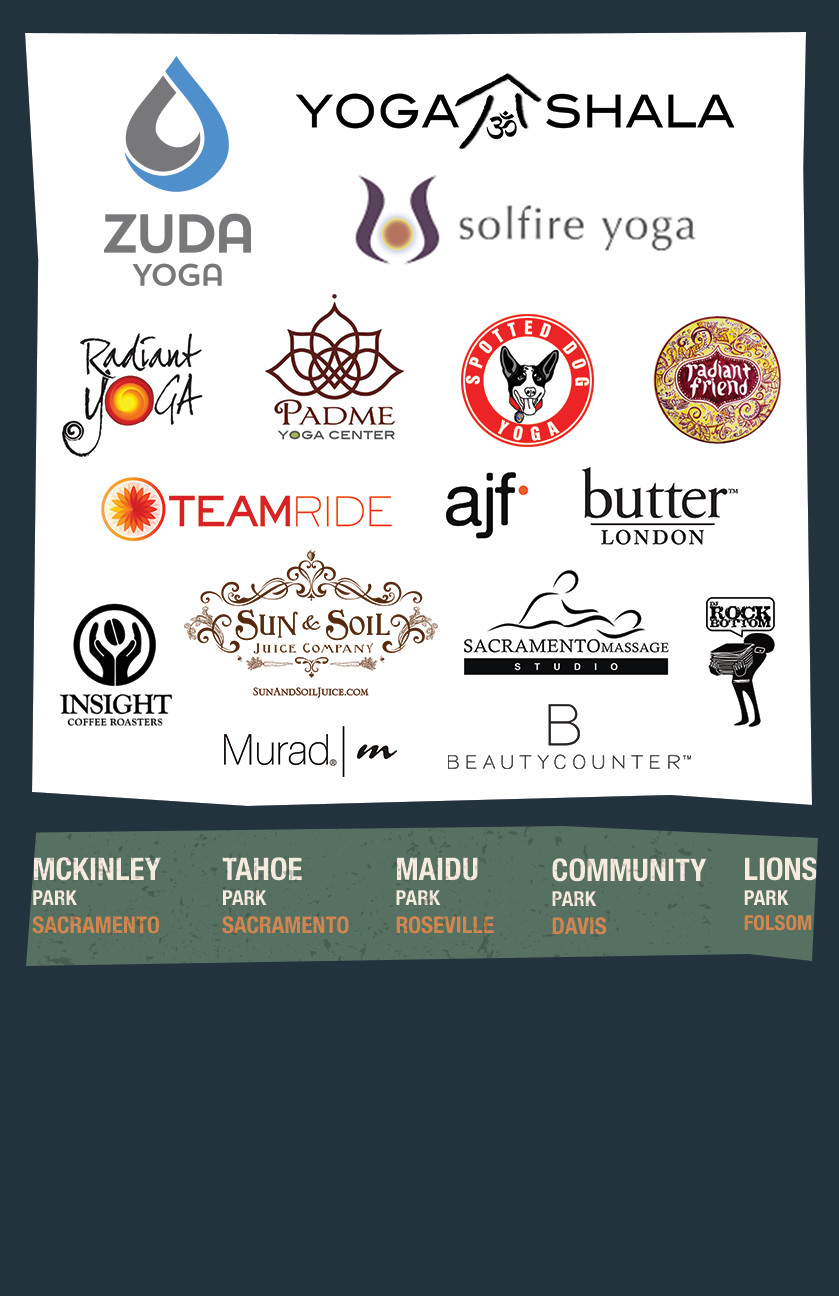
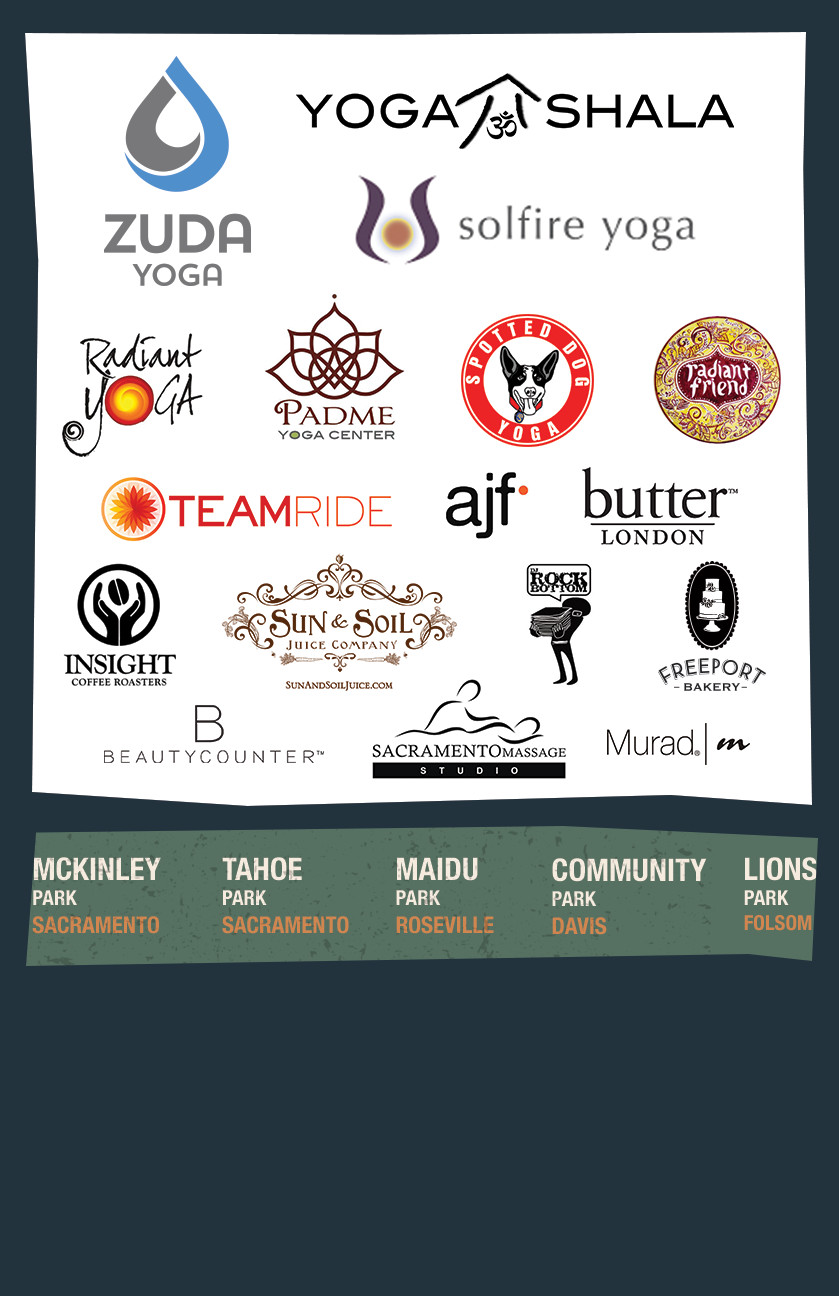
Add Freeport Bakery and re-layout sponsors

Changed region(s): [[0.2169, 0.4321, 0.9297, 0.6173], [0.062, 0.4321, 0.2169, 0.5864]]

diff --git a/css/main.scss b/css/main.scss
@@ -215,43 +215,50 @@ a.sponsor-butter-london {
 }
 
 a.sponsor-insight-coffee {
-  top: 590px;
-  left: 54px;
+  top: 554px;
+  left: 56px;
   width: 124px;
-  height: 150px;
-}
-
-a.sponsor-sun-and-soil {
-  top: 548px;
-  left: 184px;
-  width: 254px;
-  height: 151px;
-}
-
-a.sponsor-sacramento-massage-studio {
-  top: 565px;
-  left: 455px;
-  width: 220px;
-  height: 120px;
-}
-
-a.sponsor-dj-rock-bottom {
-  top: 590px;
-  left: 700px;
-  width: 81px;
   height: 142px;
 }
 
+a.sponsor-sun-and-soil {
+  top: 554px;
+  left: 222px;
+  width: 234px;
+  height: 137px;
+}
+
+a.sponsor-sacramento-massage-studio {
+  top: 679px;
+  left: 371px;
+  width: 196px;
+  height: 111px;
+}
+
+a.sponsor-dj-rock-bottom {
+  top: 556px;
+  left: 519px;
+  width: 81px;
+  height: 133px;
+}
+
 a.sponsor-murad {
-  top: 723px;
-  left: 214px;
+  top: 713px;
+  left: 584px;
   width: 189px;
   height: 60px;
 }
 
 a.sponsor-beautycounter {
   top: 698px;
-  left: 444px;
+  left: 89px;
   width: 250px;
   height: 80px;
+}
+
+a.sponsor-freeport-bakery {
+  top: 556px;
+  left: 649px;
+  width: 125px;
+  height: 146px;
 }

diff --git a/index.html b/index.html
@@ -230,6 +230,12 @@
               <span itemprop="name" class="sr-only">Beautycounter</span>
             </a>
           </li>
+
+          <li itemprop="sponsor" itemscope itemtype="http://schema.org/Organization">
+            <a class="sponsor sponsor-freeport-bakery" itemprop="url" href="http://freeportbakery.com/">
+              <span itemprop="name" class="sr-only">Freeport Bakery</span>
+            </a>
+          </li>
         </ul>
       </article>
     </div>
